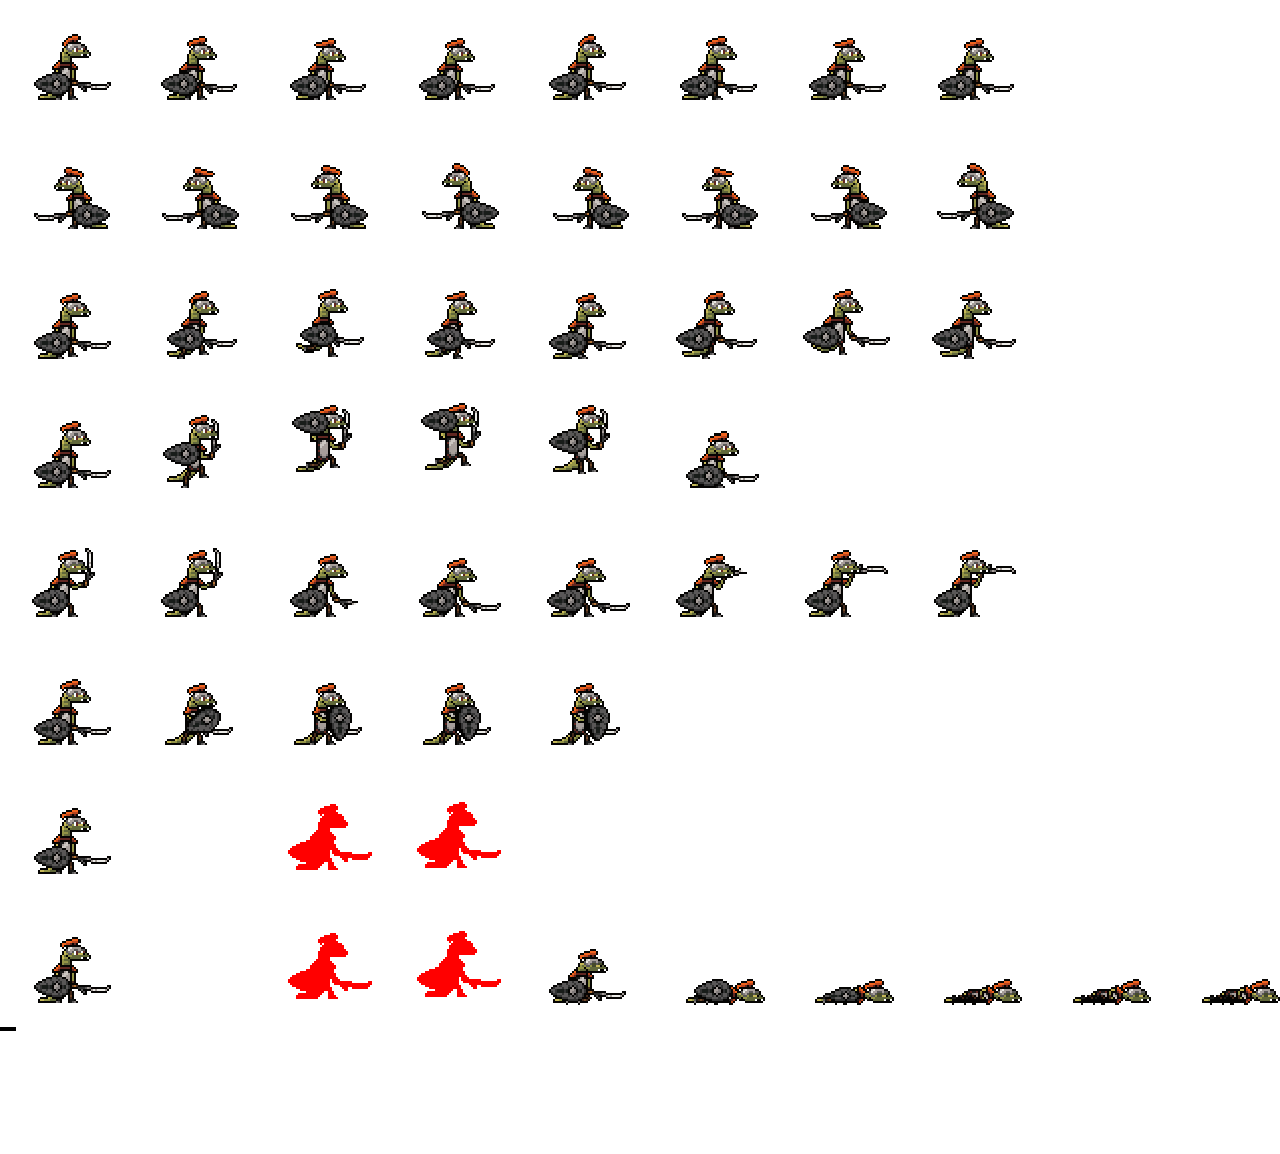
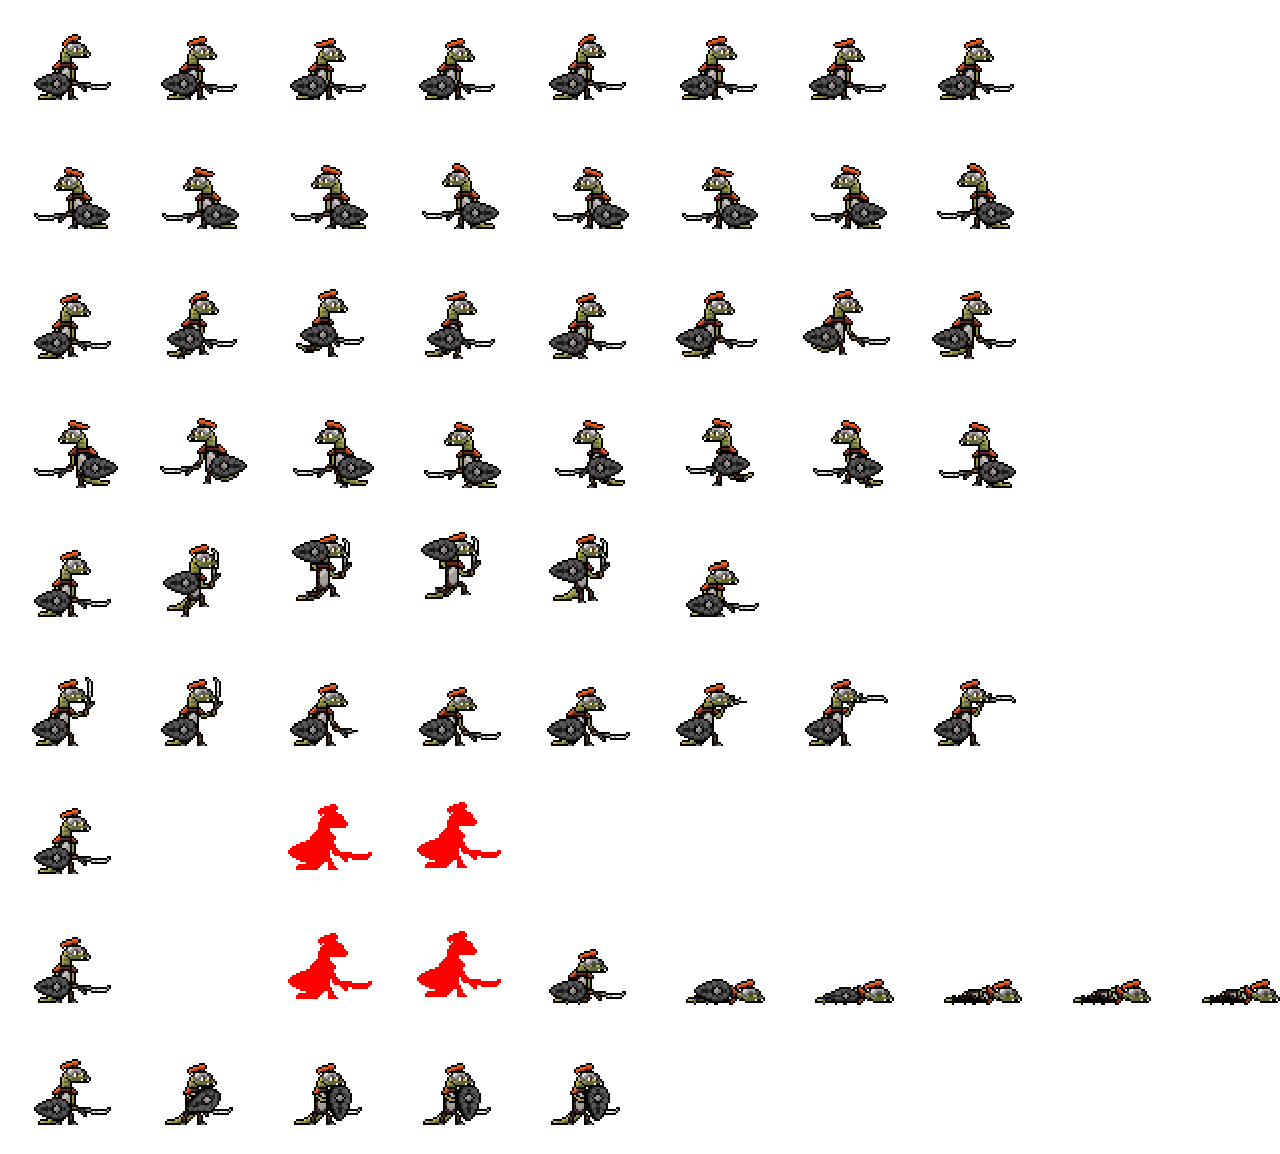
Enemy run animation

diff --git a/Grup-8-Platformer-Alpha_VisualStudio/Game/Source/enemy.cpp b/Grup-8-Platformer-Alpha_VisualStudio/Game/Source/enemy.cpp
@@ -43,6 +43,28 @@ bool Enemy::Awake() {
 	idle_l.loop = true;
 	idle_l.speed = 0.1f;
 
+	run_r.PushBack({ 129 * 7, 129 * 2, 129, 129 });
+	run_r.PushBack({ 129 * 6, 129 * 2, 129, 129 });
+	run_r.PushBack({ 129 * 5, 129 * 2, 129, 129 });
+	run_r.PushBack({ 129 * 4, 129 * 2, 129, 129 });
+	run_r.PushBack({ 129 * 3, 129 * 2, 129, 129 });
+	run_r.PushBack({ 129 * 2, 129 * 2, 129, 129 });
+	run_r.PushBack({ 129 * 1, 129 * 2, 129, 129 });
+	run_r.PushBack({ 129 * 0, 129 * 2, 129, 129 });
+	run_r.loop = true;
+	run_r.speed = 0.1f;
+
+	run_l.PushBack({ 129 * 7, 129 * 3, 129, 129 });
+	run_l.PushBack({ 129 * 6, 129 * 3, 129, 129 });
+	run_l.PushBack({ 129 * 5, 129 * 3, 129, 129 });
+	run_l.PushBack({ 129 * 4, 129 * 3, 129, 129 });
+	run_l.PushBack({ 129 * 3, 129 * 3, 129, 129 });
+	run_l.PushBack({ 129 * 2, 129 * 3, 129, 129 });
+	run_l.PushBack({ 129 * 1, 129 * 3, 129, 129 });
+	run_l.PushBack({ 129 * 0, 129 * 3, 129, 129 });
+	run_l.loop = true;
+	run_l.speed = 0.1f;
+
 
 	death.PushBack({ 0, 129 * 7, 129, 129 });
 	death.PushBack({ 129 * 1, 129 * 7, 129, 129 });
@@ -92,13 +114,13 @@ bool Enemy::Update()
 	if (derecha == true && !hit) {
 		position.x = position.x + 1;
 		vel = b2Vec2(speed, -GRAVITY_Y);
-		EnemyAnimation = &idle_r;
+		EnemyAnimation = &run_r;
 
 	}
 	if (derecha == false && !hit) {
 		position.x = position.x - 1;
 		vel = b2Vec2(-speed, -GRAVITY_Y);
-		EnemyAnimation = &idle_l;
+		EnemyAnimation = &run_l;
 	}
 
 

diff --git a/Grup-8-Platformer-Alpha_VisualStudio/Game/Source/enemy.h b/Grup-8-Platformer-Alpha_VisualStudio/Game/Source/enemy.h
@@ -46,7 +46,7 @@ private:
 	SDL_Texture* texture;
 	const char* texturePath;
 
-	int speed = 1;
+	int speed = 2;
 
 	//DONE 4: Add a physics to an item
 	PhysBody* pbody;
